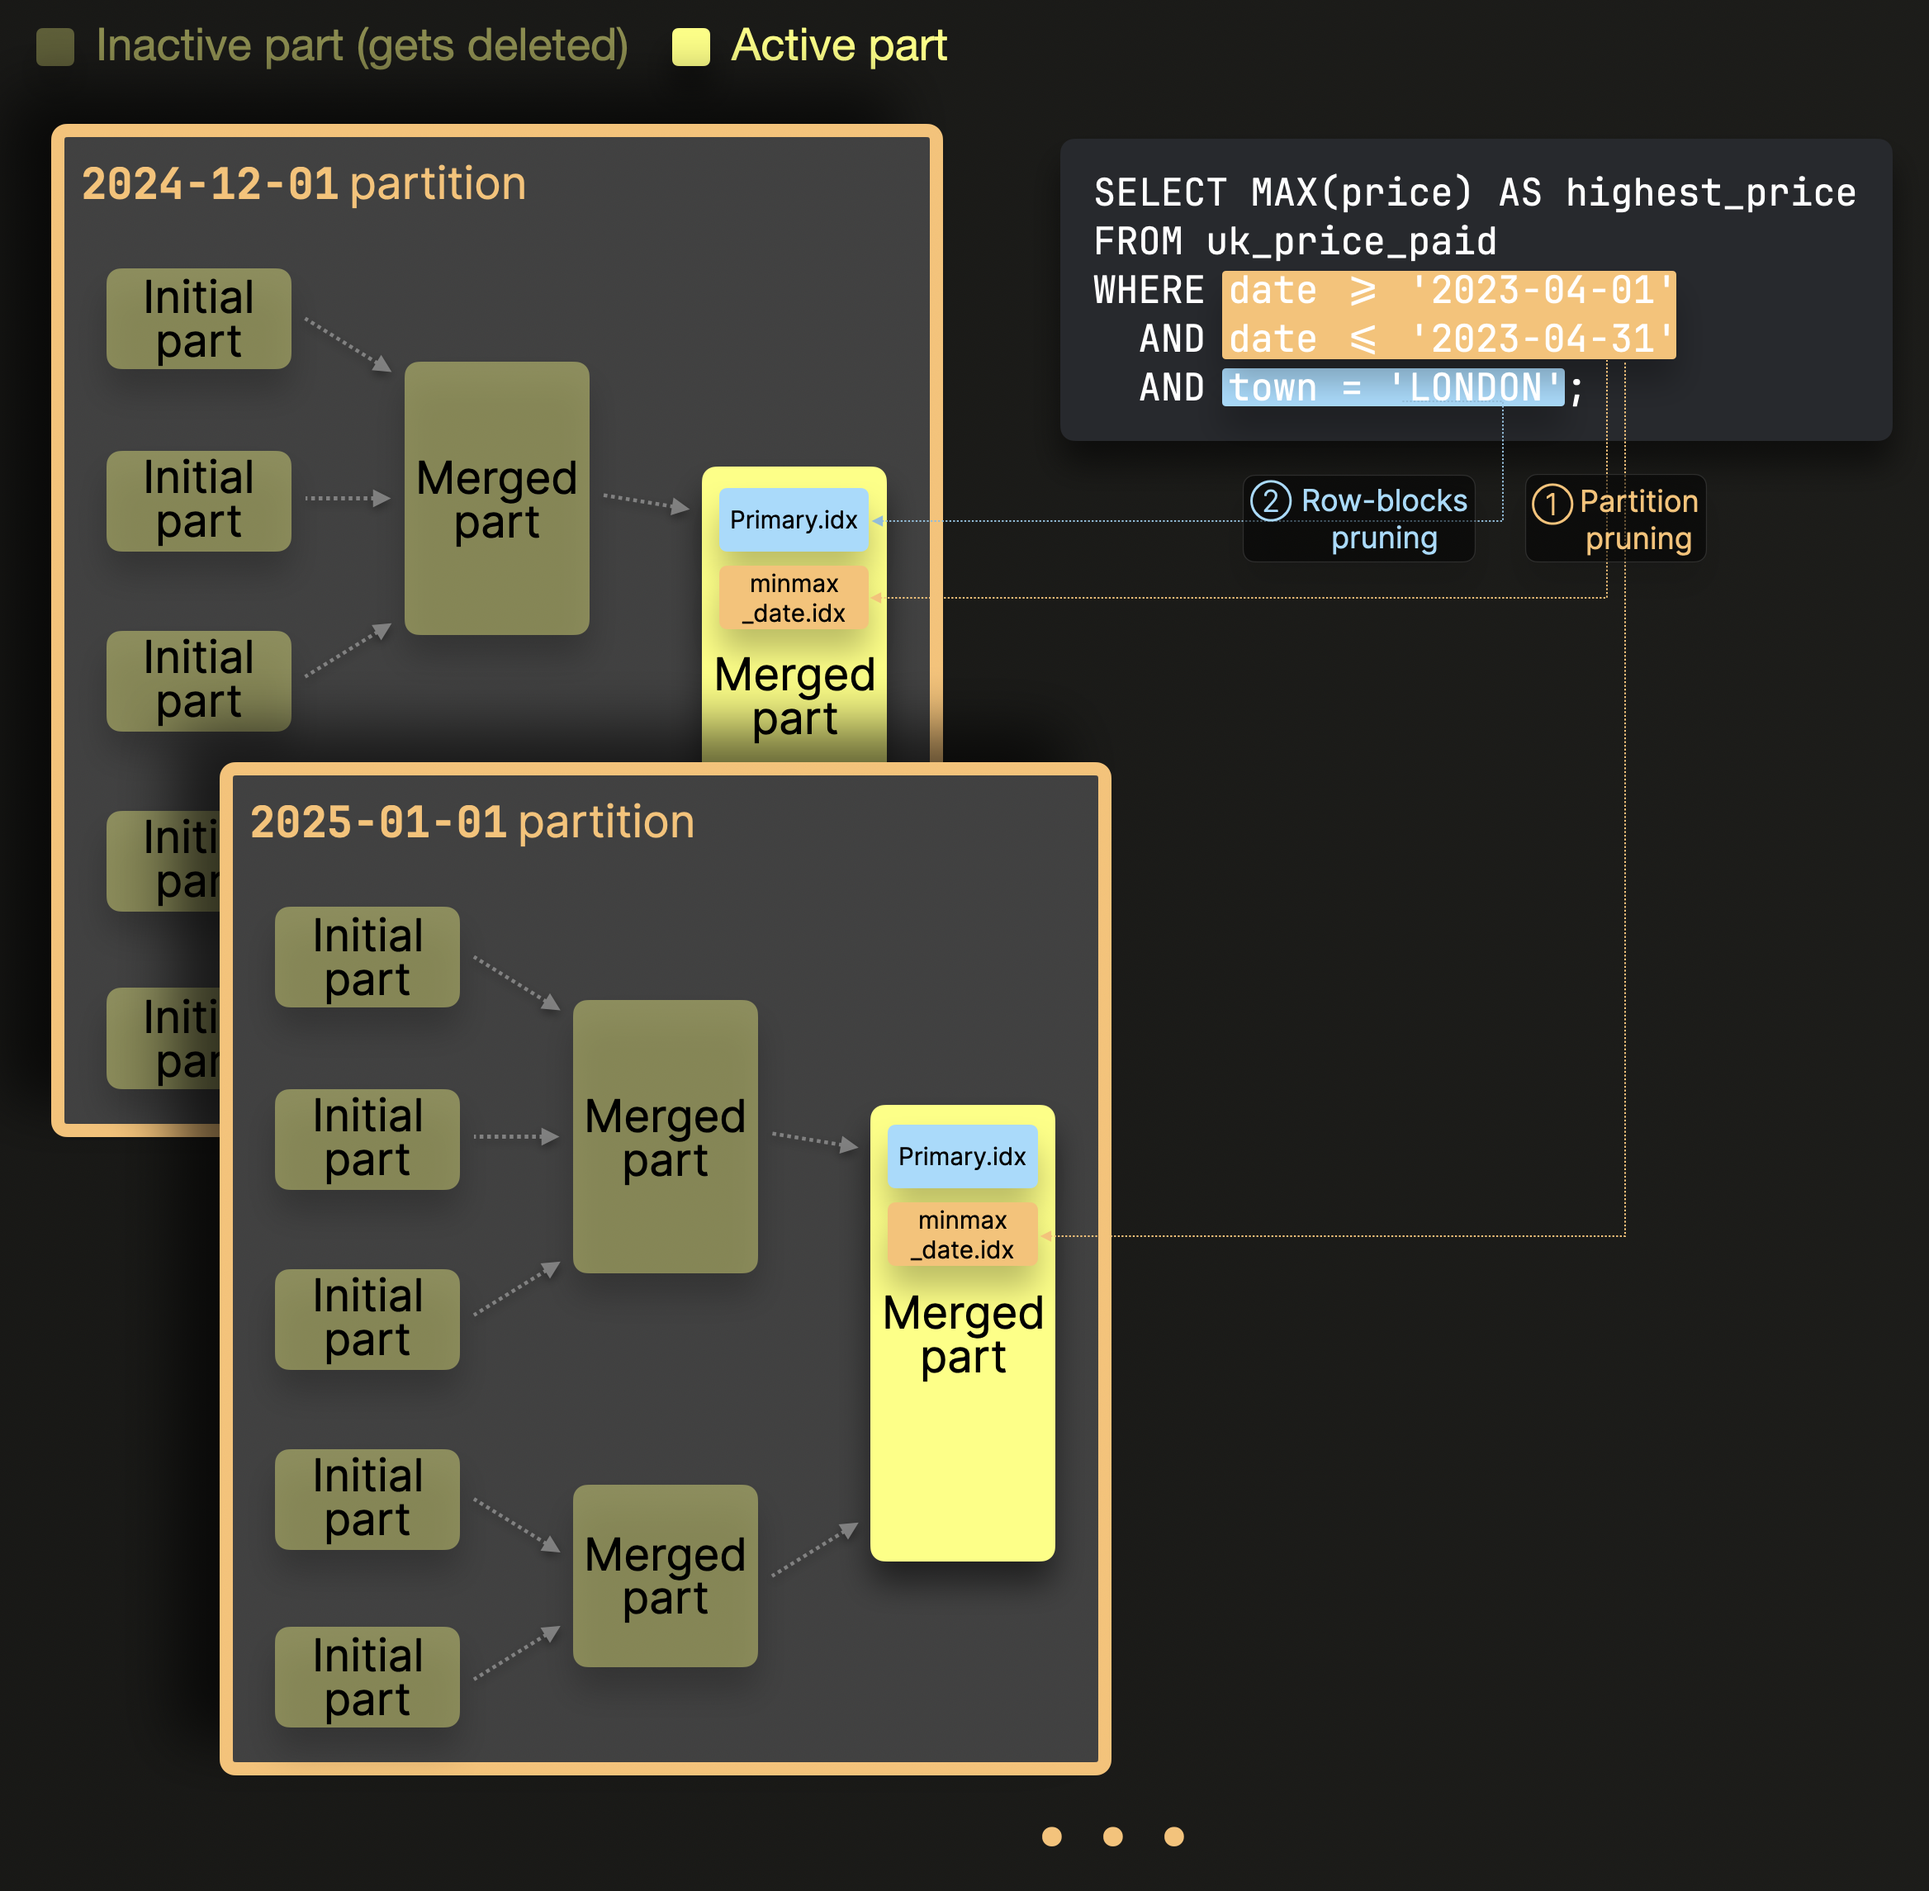
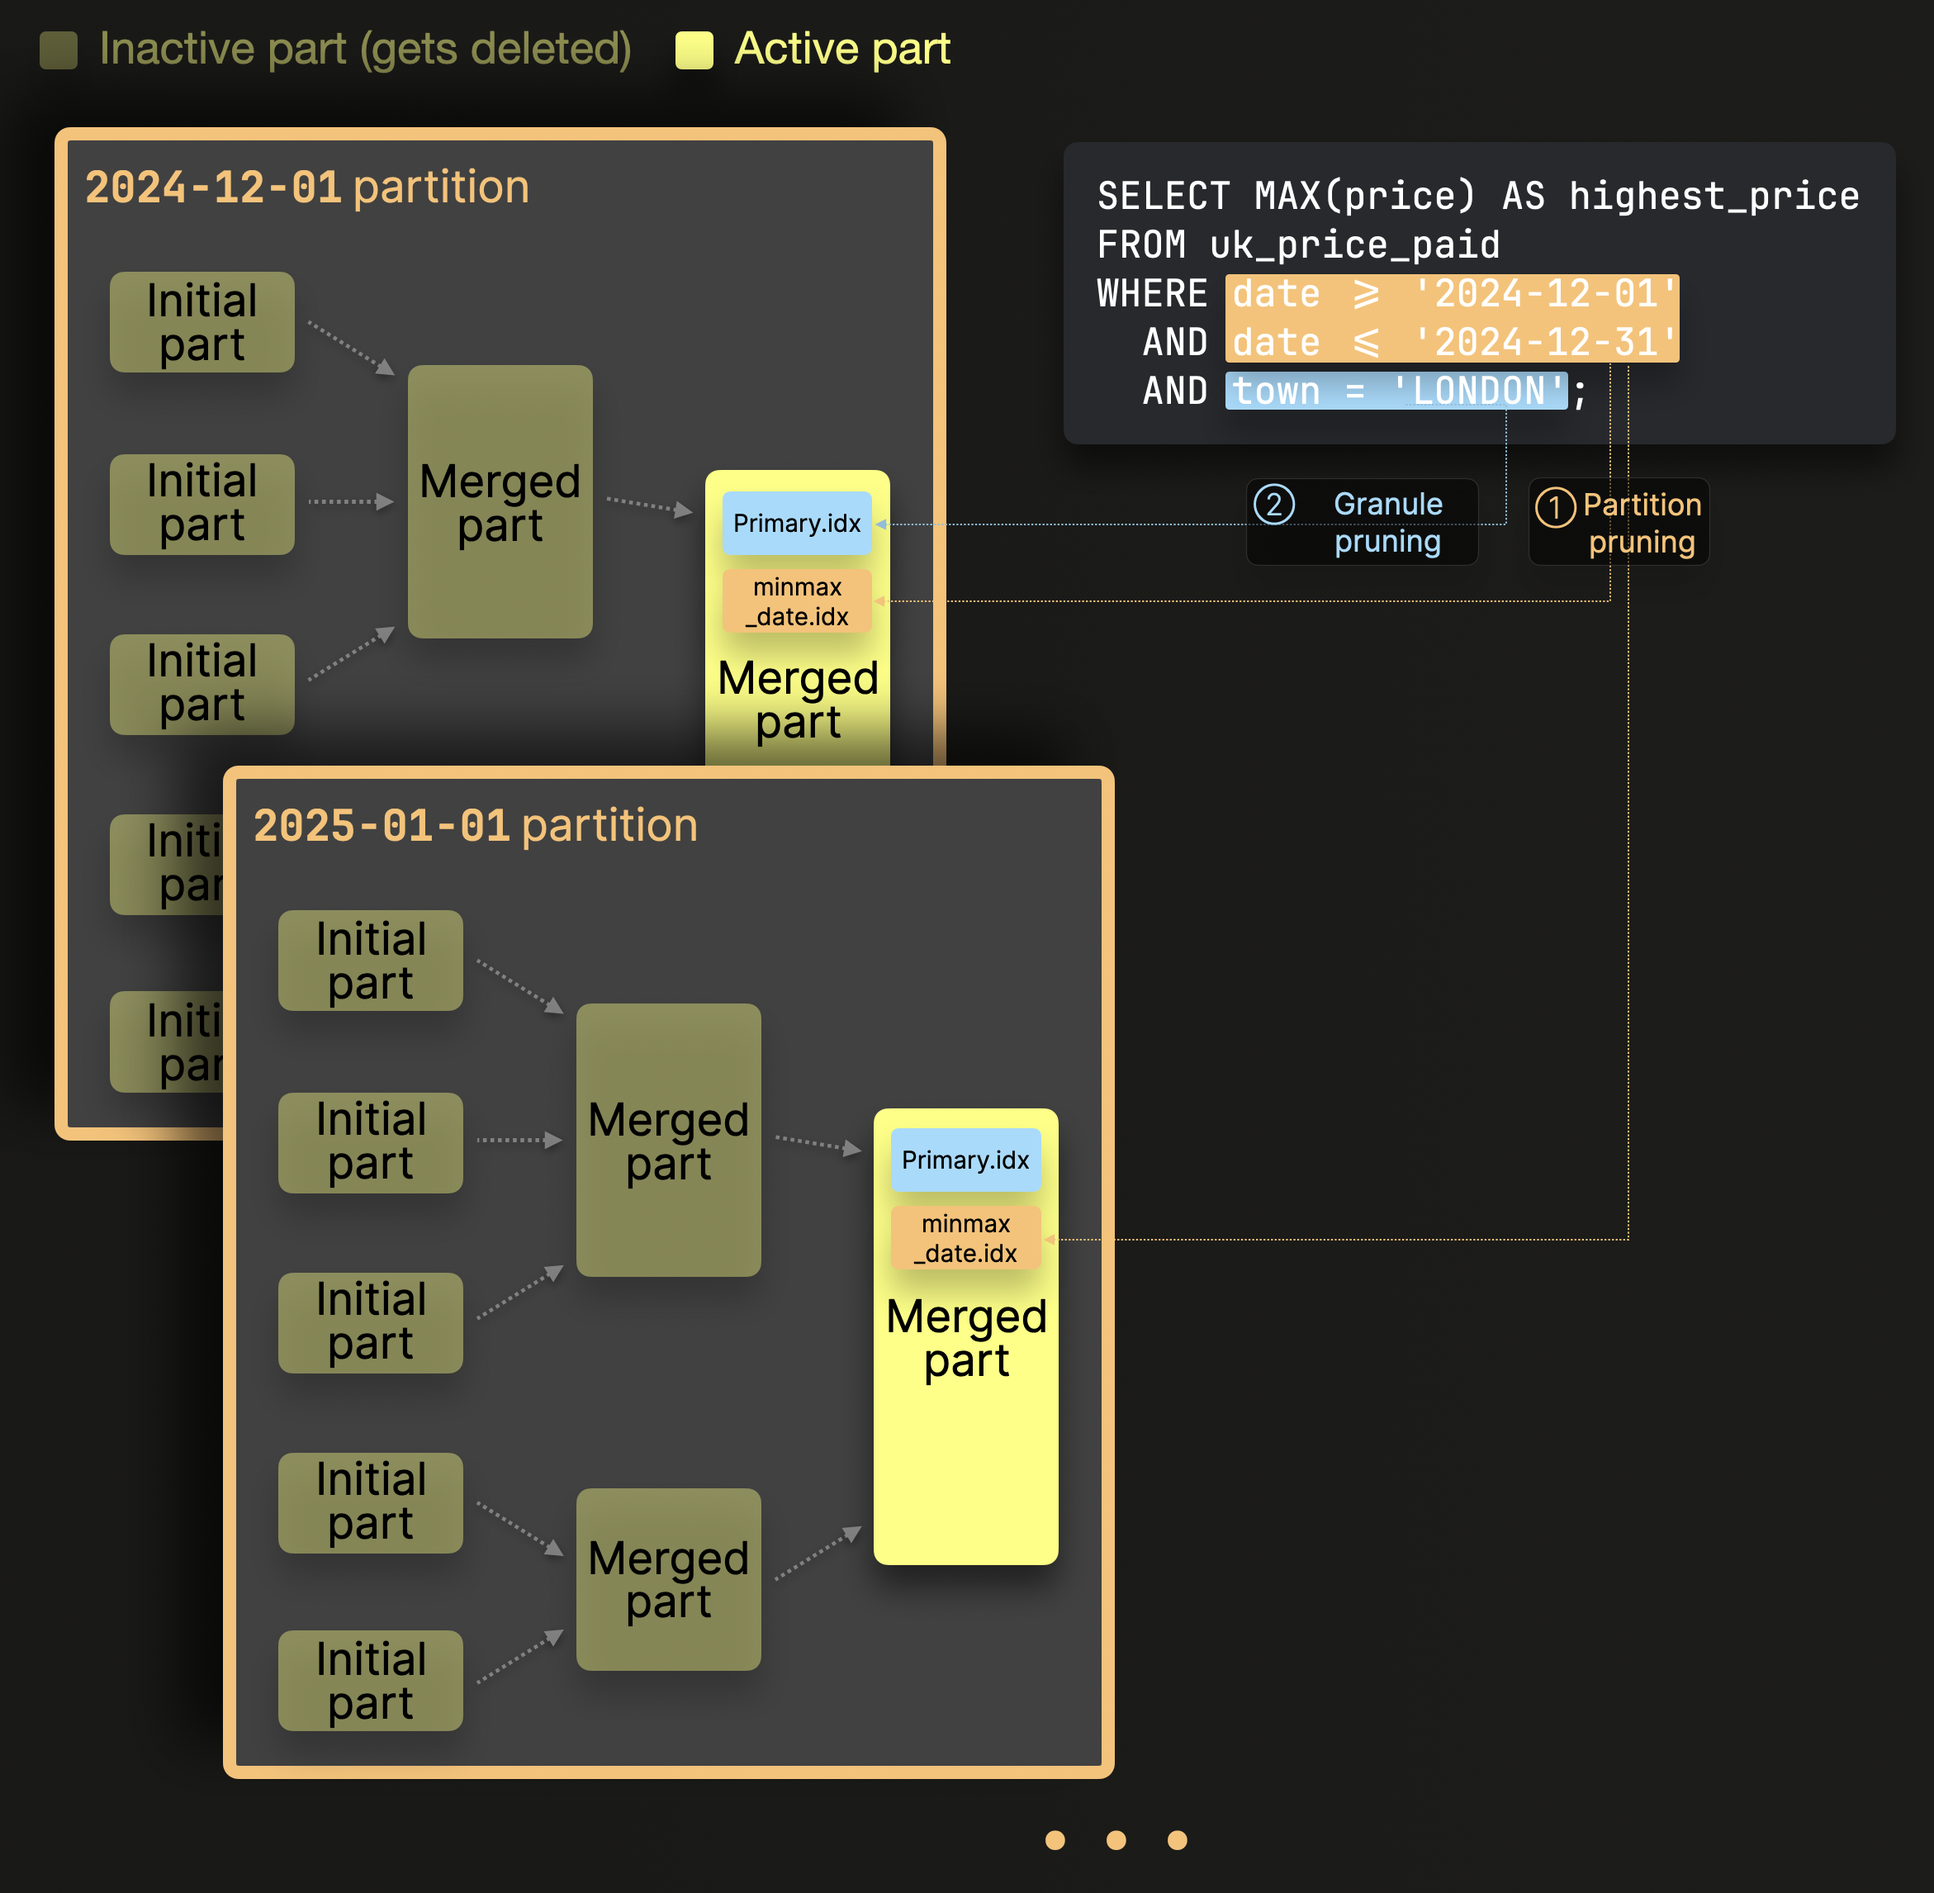
Second pass.

diff --git a/docs/en/managing-data/core-concepts/partitions.md b/docs/en/managing-data/core-concepts/partitions.md
@@ -9,7 +9,8 @@ keywords: [partitions]
 
 <br/>
 
-Partitions organize the [data parts](/docs/en/parts) of a [MergeTree engine family](/docs/en/engines/table-engines/mergetree-family) table. 
+
+Partitions group the [data parts](/docs/en/parts) of a table in the [MergeTree engine family](/docs/en/engines/table-engines/mergetree-family) into organized, logical units, which is a way of organizing data that is conceptually meaningful and aligned with specific criteria, such as time ranges, categories, or other key attributes. These logical units make data easier to manage, query, and optimize.
 
 
 Partitioning can be enabled when a table is initially defined via the [PARTITION BY clause](/docs/en/engines/table-engines/mergetree-family/custom-partitioning-key). This clause can contain a SQL expression on any columns, the results of which will define which partition a row belongs to.
@@ -30,7 +31,7 @@ ORDER BY (town, street)
 PARTITION BY toStartOfMonth(date);
 ```
 
-Instead of creating (at [least](/docs/en/operations/settings/settings#max_insert_block_size)) one single part containing the data of all inserted rows (as illustrated [here](/docs/en/parts)), ClickHouse is creating one new data part per unique partition key value of the inserted rows:
+Whenever a set of rows is inserted into the table, instead of creating (at [least](/docs/en/operations/settings/settings#max_insert_block_size)) one single data part containing all the inserted rows (as described [here](/docs/en/parts)), ClickHouse creates one new data part for each unique partition key value among the inserted rows:
 
 <img src={require('./images/partitions.png').default} alt='INSERT PROCESSING' class='image' style={{width: '100%'}} />
 <br/>
@@ -41,7 +42,7 @@ Then, for each identified partition, the rows are processed as [usual](/docs/en/
 Note that with partitioning enabled, ClickHouse automatically creates [MinMax indexes](https://github.com/ClickHouse/ClickHouse/blob/dacc8ebb0dac5bbfce5a7541e7fc70f26f7d5065/src/Storages/MergeTree/IMergeTreeDataPart.h#L341) for each data part. These are simply files for each table column used in the partition key expression, containing the minimum and maximum values of that column within the data part.
 
 
-Further note that with partitioning enabled, ClickHouse only [merges](/docs/en/parts) data parts within, but not across partitions:
+Further note that with partitioning enabled, ClickHouse only [merges](/docs/en/parts) data parts within, but not across partitions. We sketch that for our example table from above:
 
 <img src={require('./images/merges_with_partitions.png').default} alt='PART MERGES' class='image' style={{width: '50%'}} />
 <br/>
@@ -51,18 +52,52 @@ As sketched in the diagram above, parts belonging to different partitions are ne
 
 ## What are table partitions used for?
 
-- **Data management** - In ClickHouse, users should principally consider partitioning to be a data management feature. By separating data logically based on a partition expression, each partition can be operated on independently e.g. ([automatically](/docs/en/guides/developer/ttl)) [deleted](https://clickhouse.com/docs/en/sql-reference/statements/alter/partition#drop-partitionpart), or [moved](https://clickhouse.com/docs/en/sql-reference/statements/alter/partition#move-partitionpart) between [storage tiers](/en/integrations/s3#storage-tiers) efficiently [without having to rewrite parts](/en/sql-reference/statements/alter#mutations).
+### Data management
 
-- **Query optimization** - Partitions can assist with query performance, but this depends heavily on the access patterns. If queries target only a few partitions (ideally one), performance can potentially improve. This is only typically useful if the partitioning key is not in the primary key and you are filtering by it, as shown in the example query below, which is filtering on both a column (`date`) used in the table's partition key and on a column (`town`) used in the table's primary key (and `date` is not part of the primary key):
+In ClickHouse, partitioning is primarily a data management feature. By organizing data logically based on a partition expression, each partition can be managed independently. For instance, the partitioning scheme in the example table above enables scenarios where only the last 12 months of data are retained in the main table by automatically removing older data using a [TTL rule](https://clickhouse.com/blog/using-ttl-to-manage-data-lifecycles-in-clickhouse) (see the added last row of the DDL statement):
+
+```
+CREATE TABLE uk_price_paid
+(
+    date Date,
+    town LowCardinality(String),
+    street LowCardinality(String),
+    price UInt32
+)
+ENGINE = MergeTree
+PARTITION BY toStartOfMonth(date)
+ORDER BY (town, street)
+TTL date + INTERVAL 12 MONTH DELETE;
+```
+Since the table is partitioned by `toStartOfMonth(date)`, entire partitions (sets of [table parts](/docs/en/parts)) that meet the TTL condition will be dropped, making the cleanup operation more efficient, [without having to rewrite parts](/en/sql-reference/statements/alter#mutations).
+
+
+Similarly, instead of deleting old data, it can be automatically and efficiently moved to a more cost-effective [storage tier](/en/integrations/s3#storage-tiers):
+```
+CREATE TABLE uk_price_paid
+(
+    date Date,
+    town LowCardinality(String),
+    street LowCardinality(String),
+    price UInt32
+)
+ENGINE = MergeTree
+PARTITION BY toStartOfMonth(date)
+ORDER BY (town, street)
+TTL date + INTERVAL 12 MONTH TO VOLUME 'slow_but_cheap';
+```
+### Query optimization
+
+Partitions can assist with query performance, but this depends heavily on the access patterns. If queries target only a few partitions (ideally one), performance can potentially improve. This is only typically useful if the partitioning key is not in the primary key and you are filtering by it, as shown in the example query below. The query runs over our example table from above and calculates the highest price of all sold properties in London in December 2024 by filtering on both a column (`date`) used in the table's partition key and on a column (`town`) used in the table's primary key (and `date` is not part of the primary key):
 
 <img src={require('./images/partition-pruning.png').default} alt='PART MERGES' class='image' style={{width: '70%'}} />
 <br/>
 
-ClickHouse processed that query by:
+ClickHouse processes that query by applying a sequence of pruning techniques to avoid evaluating irrelevant data:
 
-① **Partition pruning**: MinMax indexes are used to ignore all parts of all partitions that logically can't match the query's filter on columns used in the table's partition key.
+① **Partition pruning**: MinMax indexes are used to ignore whole partitions (sets of parts) that logically can't match the query's filter on columns used in the table's partition key.
 
-② **Row-blocks pruning**: For the remaing data parts after step ①, the [primary indexes](/docs/en/optimize/sparse-primary-indexes) are used to ignore all [granules](/docs/en/optimize/sparse-primary-indexes#data-is-organized-into-granules-for-parallel-data-processing) (blocks of rows) that logically can't match the query's filter on columns used in the table's primary key.
+② **Granule pruning**: For the remaining data parts after step ①, the [primary indexes](/docs/en/optimize/sparse-primary-indexes) are used to ignore all [granules](/docs/en/optimize/sparse-primary-indexes#data-is-organized-into-granules-for-parallel-data-processing) (blocks of rows) that logically can't match the query's filter on columns used in the table's primary key.
 
 
 
